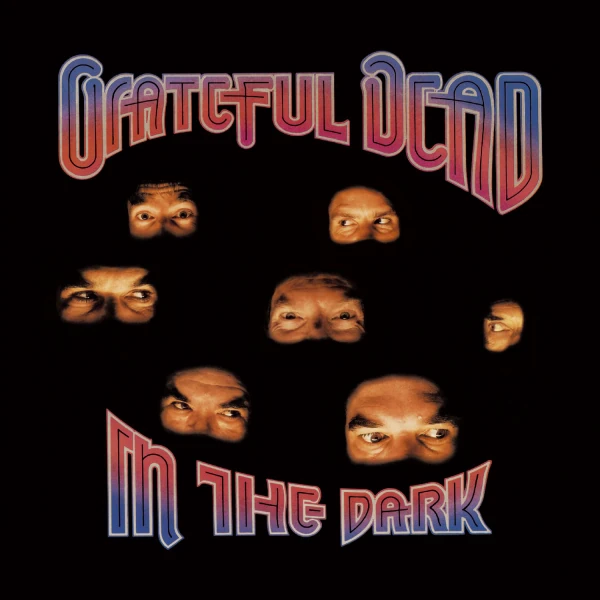
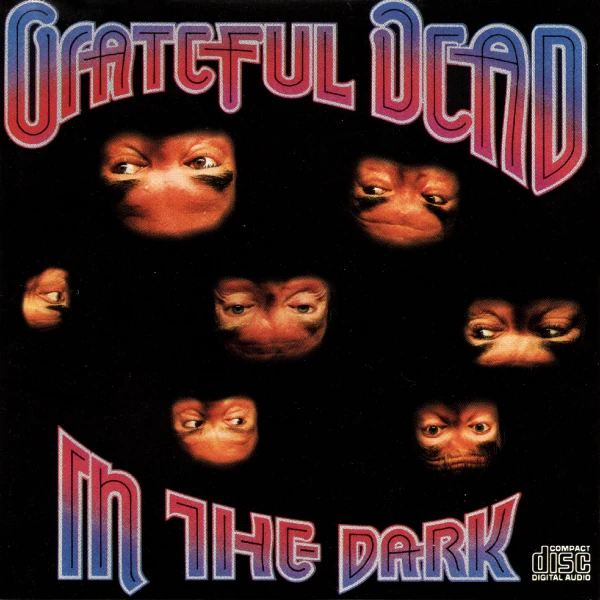
03/30/2026 - Revision 2
-Added more books and albumart

diff --git a/pages/main/changelog.html b/pages/main/changelog.html
@@ -51,7 +51,7 @@
             <h1>
                 The Changelog 
             </h1>
-            <h2>03/31/26–1 Commit</h2>
+            <h2>03/31/26–2 Commits</h2>
                 <li>Updated album of the day</li>
                 <li>Added new CD album covers</li>
                 <li>Added Cassette front and spine scans</li>
